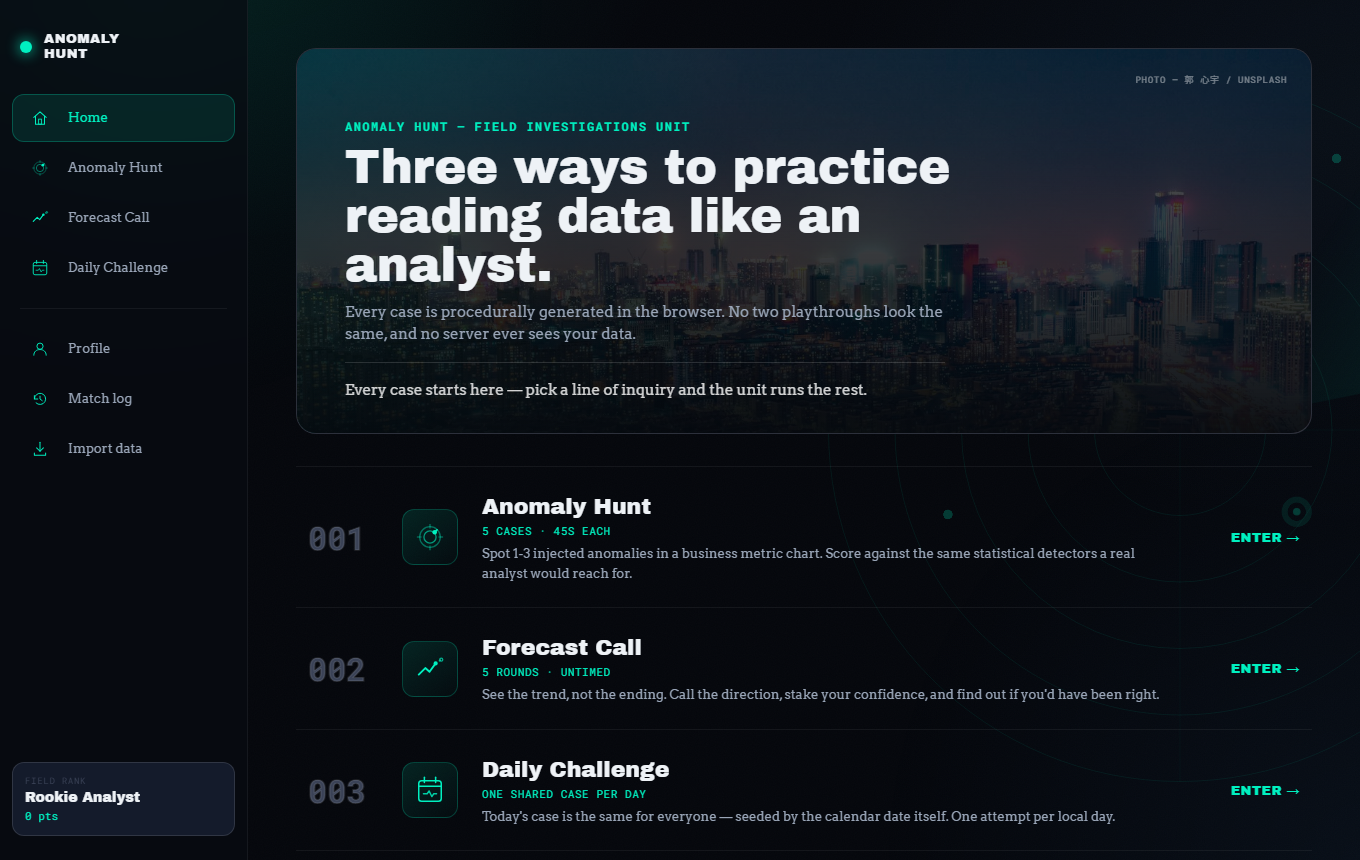
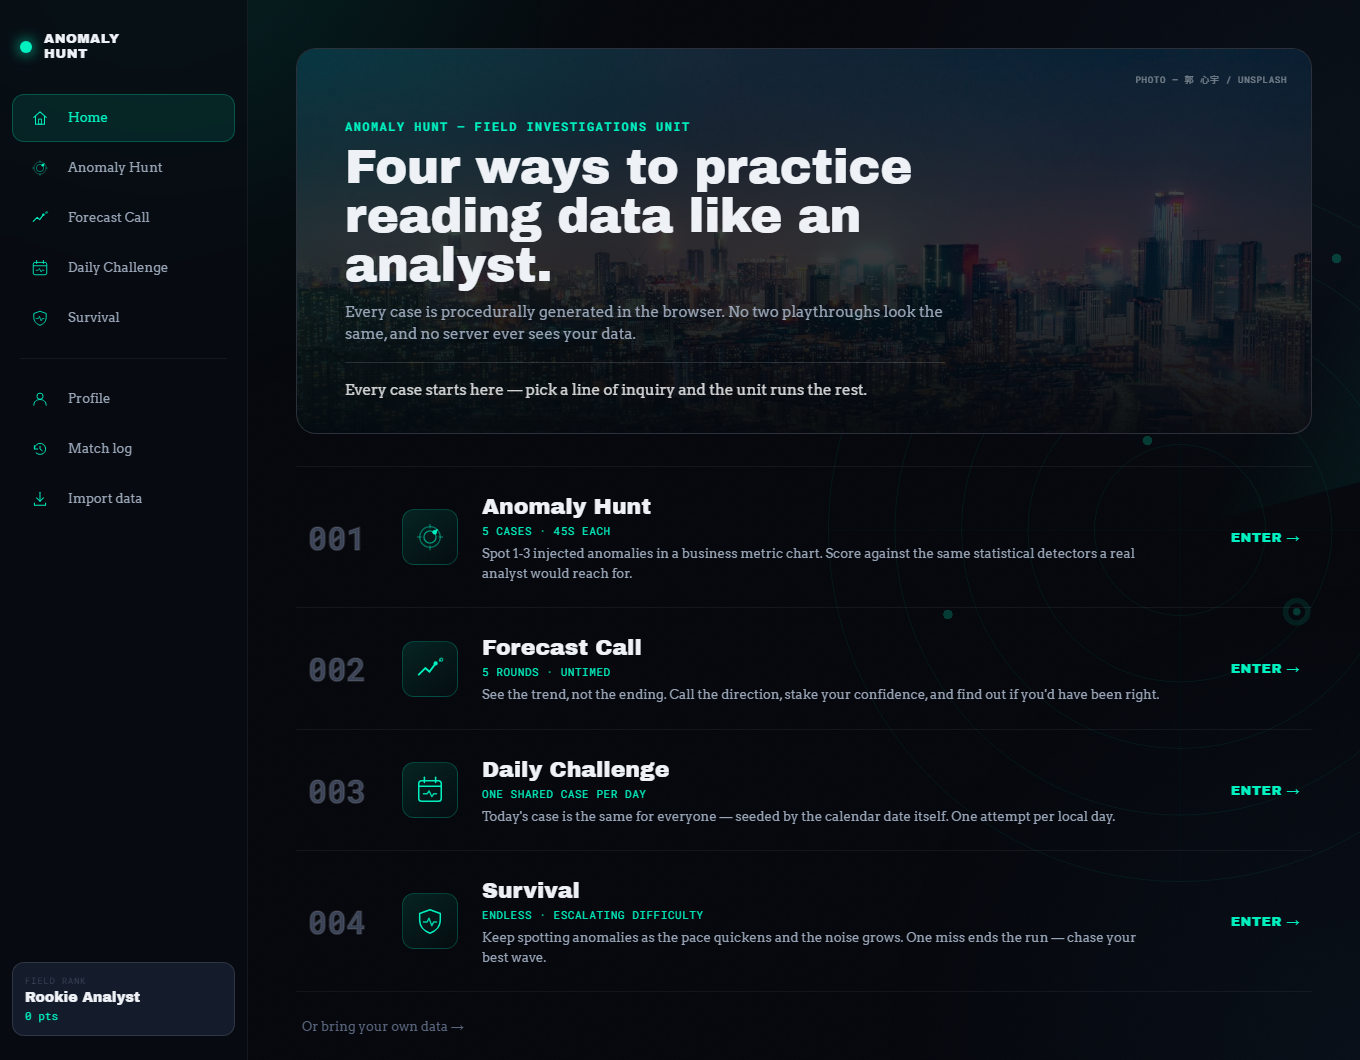
Update docs and screenshots for Survival mode and the new reveal features

diff --git a/README.md b/README.md
@@ -7,28 +7,36 @@ An open-source field-investigations game for practicing real BI/analytics
 skills: spotting anomalies in business data, forecasting where a trend
 goes next, and comparing your own judgement to real statistical methods.
 Every case is procedurally generated in the browser — no two playthroughs
-look the same, and no server ever sees your data.
+look the same, and no server ever sees your case data, scores, or match
+history.
 
 **[Play the live demo →](#)** *(add your GitHub Pages link here after deploying)*
 
-![Home screen — the case manifest, with a themed photo banner and the three modes listed as open cases](docs/screenshots/home.png)
+![Home screen — the case manifest, with a themed photo banner and all four modes listed as open cases](docs/screenshots/home.png)
 
 ### At a glance
 
-- **Three modes, one shared engine** — Anomaly Hunt (timed), Forecast
-  Call (untimed MCQ), Daily Challenge (one shared case a day) — plus a
-  fourth way in: bring your own CSV/JSON instead of a generated case.
-- **No backend, ever.** Every case is generated in your browser; your
-  profile, rank, and match history live in `localStorage` only. Nothing
-  you do here is ever sent anywhere.
+- **Four modes, one shared engine** — Anomaly Hunt (timed), Forecast
+  Call (untimed MCQ), Daily Challenge (one shared case a day), Survival
+  (endless, escalating difficulty, one miss ends the run) — plus a fifth
+  way in: bring your own CSV/JSON instead of a generated case.
+- **No backend for your data.** Every case is generated in your browser;
+  your profile, rank, and match history live in `localStorage` only —
+  none of it is ever sent anywhere. (The page does fetch Google Fonts at
+  load time, like most sites that use them — see
+  [Known limitations](#known-limitations) for the honest caveat on that.)
 - **Real statistics, not flavor text.** Three transparent anomaly
   detectors and a genuine precision/recall/F1 comparison against your
   own picks — see [`docs/methodology.md`](docs/methodology.md) for the
   reasoning behind every scoring and detection rule.
+- **Teaches, not just scores.** The reveal screen names what you missed
+  in plain English, shows the detector's own rolling-mean/std math on
+  request, and glossary tooltips explain each method — see
+  [Learning from every case](#learning-from-every-case).
 - **Tested and hardened**, not just demoed — a Vitest suite covers the
-  engine layer (including regression tests for two real, measured bugs
-  from development), CI runs that suite before every deploy, and the
-  shipped page carries a strict Content-Security-Policy with zero
+  engine layer (including regression tests for several real, measured
+  bugs from development), CI runs that suite before every deploy, and
+  the shipped page carries a strict Content-Security-Policy with zero
   relaxations.
 - **Keyboard-accessible.** The chart itself — the core interaction — is
   fully operable without a mouse, with live-region announcements for
@@ -37,8 +45,9 @@ look the same, and no server ever sees your data.
 ### Contents
 
 - [Look and feel](#look-and-feel)
-- [Three investigations, one engine](#three-investigations-one-engine)
+- [Four investigations, one engine](#four-investigations-one-engine)
 - [The interaction](#the-interaction)
+- [Learning from every case](#learning-from-every-case)
 - [How it works](#how-it-works)
 - [Testing, reliability & security](#testing-reliability--security)
 - [Repo structure](#repo-structure)
@@ -61,9 +70,9 @@ beat before the hidden data locks away. Switching screens in the sidebar
 sweeps the new one in with a spring-based "swoosh" rather than a plain
 fade.
 
-## Three investigations, one engine
+## Four investigations, one engine
 
-All three modes are built on the same procedurally-generated
+All four modes are built on the same procedurally-generated
 business-metric library (`web/src/engine/metrics.js`) — seven metric
 templates (revenue, active users, support tickets, defect rate, response
 time, ad ROAS, churn rate), each randomized every time, so the underlying
@@ -71,16 +80,18 @@ data engine is shared rather than duplicated per mode.
 
 ### 🕵 Anomaly Hunt
 Five cases, 45 seconds each. A business metric is shown with 1–3 injected
-anomalies (point spikes, level shifts, missing-data gaps, trend breaks).
-Click, or press-drag-release a dart onto the chart to flag what looks
-wrong before time runs out. Scoring is **distance-based**: a flag near
-the true anomaly earns partial credit that fades with distance — both in
-days and in value — not an all-or-nothing exact match (up to 6 flags per
-case). After each case, compare your picks to three real statistical
-detectors (rolling z-score, rolling IQR, a weekly-seasonal-diff method)
-run against the same data, with a real precision/recall/F1 "Human vs
-Machine" table — your score computed with the exact same methodology as
-the detectors, not a different metric dressed up to look comparable.
+anomalies — point spikes, level shifts, missing-data gaps, trend breaks,
+or volatility spikes (a short burst of erratic noise around an otherwise
+unchanged baseline). Click, or press-drag-release a dart onto the chart
+to flag what looks wrong before time runs out. Scoring is
+**distance-based**: a flag near the true anomaly earns partial credit
+that fades with distance — both in days and in value — not an
+all-or-nothing exact match (up to 6 flags per case). After each case,
+compare your picks to three real statistical detectors (rolling z-score,
+rolling IQR, a weekly-seasonal-diff method) run against the same data,
+with a real precision/recall/F1 "Human vs Machine" table — your score
+computed with the exact same methodology as the detectors, not a
+different metric dressed up to look comparable.
 
 ![Anomaly Hunt mid-case — darts flagged on a trend-break and level-shift, with the day-over-day delta strip below the chart](docs/screenshots/anomaly-hunt-gameplay.png)
 
@@ -101,6 +112,16 @@ is testing calibrated judgement, not just correctness.
 One deterministic, date-seeded Anomaly Hunt case shared by everyone who
 plays that day — the calendar date itself is the random seed, so no
 backend or server-assigned puzzle is needed. One attempt per local day.
+
+### 🛡 Survival
+Endless mode: cases keep coming, one wave at a time, with anomaly count
+and subtlety both escalating as you go (`survivalSettingsForWave()` in
+`anomalies.js`) — the ramp holds at a steady, tough-but-survivable
+ceiling past wave 13 rather than escalating forever, so a skilled run
+never becomes mathematically unwinnable. One missed anomaly ends the
+run (false alarms still cost points but don't end it by themselves);
+reaching wave N — even the wave that ends the run — counts toward your
+best-run stat, tracked on the Profile screen.
 
 ### 📥 Bring your own data
 Anomaly Hunt doesn't have to run on a procedurally-generated case — drop
@@ -125,7 +146,7 @@ never drift out of sync. History and local-only "personal best" boards
 (`leaderboard.js`) live entirely in `localStorage`; clearing it from the
 History screen gives you a clean slate.
 
-![Profile screen — rank progress bar and the per-anomaly-type detection skill radar chart](docs/screenshots/profile.png)
+![Profile screen — rank progress bar, lifetime stats including best survival wave, and the five-axis per-anomaly-type detection skill radar with a practice-your-weakest-skill CTA](docs/screenshots/profile.png)
 
 ## The interaction
 
@@ -142,6 +163,30 @@ The same chart is fully keyboard-operable too: focus it and use **Left
 focused one** — a live region announces the day, value, and flagged
 state as you move, since the pointer path's visual hover readout alone
 wouldn't reach a screen-reader user.
+
+## Learning from every case
+
+The reveal screen doesn't just score you — it explains:
+
+- **What you missed** — each missed anomaly is named in plain English
+  ("a level shift", "a burst of erratic noise"), not just marked wrong,
+  so a miss builds a mental taxonomy instead of staying an unexplained
+  red mark.
+- **Detector reasoning, on request** — a "Show detector math" toggle
+  overlays the rolling z-score detector's own mean ± std band on the
+  chart, the exact baseline it judged every point against.
+- **Glossary tooltips** on each detector's name in the Human vs Machine
+  table, so "Rolling IQR" doesn't have to be taken on faith.
+- **Practice your weakest skill** — the Profile screen's radar chart
+  tracks your hit rate per anomaly type; a one-click CTA builds a case
+  entirely out of whichever type you're worst at.
+- **Replay it live** — an alternate start on Anomaly Hunt's ready screen
+  reveals the case one day at a time instead of all 90 at once, testing
+  real-time judgement instead of hindsight pattern-matching on a static
+  chart. The chart's y-axis stays locked to the case's full range the
+  whole time (not rescaled as new days arrive) so the test stays "can
+  you still catch it without seeing the ending," not a second, noisier
+  test of coping with a moving axis.
 
 ## How it works
 
@@ -162,7 +207,7 @@ wouldn't reach a screen-reader user.
 4. Finish all rounds and the session score is broken down case by case,
    then logged to your local match history.
 
-![Case review — the accuracy/penalty/speed-bonus breakdown next to the Human vs Machine precision/recall/F1 comparison table](docs/screenshots/anomaly-hunt-reveal.png)
+![Case review — the rolling detector-math band toggled on, the accuracy/penalty/speed-bonus breakdown next to the Human vs Machine table with glossary tooltips, and the "What you missed" panel explaining the one anomaly that wasn't flagged](docs/screenshots/anomaly-hunt-reveal.png)
 
 ## Testing, reliability & security
 
@@ -174,7 +219,7 @@ npm run test:watch
 
 **Tested.** The engine layer (`web/src/engine/*.js`) — the part that
 actually has to be statistically correct — has a
-[Vitest](https://vitest.dev) suite covering every module, including two
+[Vitest](https://vitest.dev) suite covering every module, including
 regression tests for defects that were real, measured bugs during
 development and are exactly the kind of thing that could silently
 reappear without a test catching them:
@@ -186,6 +231,12 @@ reappear without a test catching them:
 - **The Forecast Call range-question band-width floor** — asserting the
   answer band can never collapse to a degenerate zero-width option on a
   metric pinned near its own floor.
+- **Zero-deviation-at-the-flagged-point** — both `trend_break` and
+  `volatility_spike` guard against the same failure mode: a point
+  computed purely from a formula (a slope, a random noise draw) can land
+  near zero by chance and make the one point a player is asked to find
+  look completely normal. Each type's injection guarantees a real
+  deviation exactly at its own index instead of leaving it to chance.
 
 The GitHub Actions deploy workflow runs this suite before every build —
 a failing test blocks the deploy, it doesn't just sit unread locally.
@@ -215,10 +266,10 @@ anomaly-hunt/
 │   ├── src/engine/                     # the game's logic, zero UI code
 │   │   ├── rng.js                      # seedable PRNG (mulberry32) + Gaussian sampler
 │   │   ├── metrics.js                  # business-metric templates, formatting, unit floors
-│   │   ├── anomalies.js                # injects labeled anomalies (spaced to avoid double credit)
-│   │   ├── detectors.js                # z-score / IQR / weekly-diff, self-exclusion built in
+│   │   ├── anomalies.js                # injects 1 of 5 labeled anomaly types (spaced to avoid double credit)
+│   │   ├── detectors.js                # z-score / IQR / weekly-diff, self-exclusion built in, each returns its own math
 │   │   ├── scoring.js                  # Anomaly Hunt distance-based + Forecast confidence scoring
-│   │   ├── case.js                     # builds one playable round from a template or imported data
+│   │   ├── case.js                     # builds one playable round from a template, imported data, or a Survival wave
 │   │   ├── daily.js                    # date-seeded deterministic Daily Challenge
 │   │   ├── forecast.js                 # Forecast Call: builds the MCQ + distractors
 │   │   ├── dataImport.js               # parses an imported CSV/JSON series (quote-aware, 5 MB capped)
@@ -227,19 +278,21 @@ anomaly-hunt/
 │   │   └── *.test.js                   # vitest coverage for every file above — see Testing, reliability & security below
 │   ├── src/charts/                     # hand-rolled d3-scale/d3-shape charts, no chart library
 │   │   ├── useChartScales.js           # the ONE exact-domain scale every marker shares
-│   │   ├── AnomalyChart.jsx            # press-drag-release dart (+ full keyboard path), detector overlay
+│   │   ├── AnomalyChart.jsx            # press-drag-release dart (+ full keyboard path), detector + rolling-band overlay
+│   │   ├── RollingBand.jsx             # the toggleable rolling mean ± std band behind the chart line
 │   │   ├── ForecastChart.jsx / ChartShadow.jsx   # cutoff + the fog-bank/ghost hidden-region reveal
-│   │   ├── RadarSkillChart.jsx         # Profile's per-anomaly-type detection skill chart
+│   │   ├── RadarSkillChart.jsx         # Profile's per-anomaly-type detection skill chart (N axes, generic)
 │   │   └── ChartGrid.jsx / SeriesPath.jsx
 │   ├── src/components/                 # shared design-system pieces (Button, Card, Pill, …)
 │   │   ├── AppShell.jsx                # persistent sidebar + ambient background, mounted once
 │   │   ├── ReadyGate.jsx               # the "read the brief, then start" pause before a round
-│   │   ├── CaseRevealPanel.jsx         # the shared "case closed" block (stamp, breakdown, detector table)
+│   │   ├── CaseRevealPanel.jsx         # the shared "case closed" block (stamp, breakdown, detector table, miss explanations)
+│   │   ├── InfoHint.jsx                # portaled hover/focus glossary tooltip, escapes clipping ancestors
 │   │   ├── PageShell.jsx               # per-screen header, incl. the photo case-file banner
 │   │   ├── ConfirmDialog.jsx / CommandPalette.jsx / ToastHub.jsx   # modal, ⌘K palette, achievement toasts
 │   │   └── ErrorBoundary.jsx / ScreenLoader.jsx   # per-screen crash/chunk-load recovery + lazy-load fallback
 │   ├── src/screens/                    # one folder per screen: Home, AnomalyHunt, ForecastCall,
-│   │                                    #   DailyChallenge, Profile, History, Import
+│   │                                    #   DailyChallenge, Survival, Profile, History, Import
 │   ├── src/assets/photos/              # credited Unsplash photos for each screen's case-file banner
 │   ├── src/design/                     # tokens.css (incl. the global focus-ring), animations.css
 │   ├── src/App.jsx                     # screen switcher, lazy-loaded per screen, page-transition shell
@@ -270,7 +323,7 @@ npm install
 npm run dev
 ```
 
-Either way, all three game modes generate their own data live in the
+Either way, all four game modes generate their own data live in the
 browser — nothing to run before `npm run dev`.
 
 Open the local dev URL Vite prints once either command finishes.
@@ -281,6 +334,14 @@ repo's Settings → Pages → Source: GitHub Actions).
 
 ## Known limitations
 
+- **The page fetches Google Fonts at load time** (`fonts.googleapis.com`
+  / `fonts.gstatic.com`, allow-listed in the CSP) — like the vast
+  majority of sites that use them, this means a visitor's browser makes
+  a request to Google's CDN, which sees that visitor's IP address the
+  same way any font/CDN request would. No game data, scores, or history
+  are ever part of that request or sent anywhere else — this is the one
+  caveat on the "no server ever sees your data" claims elsewhere in this
+  document, and it's called out here rather than left implicit.
 - **All data is synthetic**, generated procedurally in the browser — not
   real business data, and isn't claiming to be. The goal is realistic
   *shape* (seasonality, trend, noise), not real-world accuracy.
@@ -290,6 +351,10 @@ repo's Settings → Pages → Source: GitHub Actions).
 - The **credit radius (Anomaly Hunt) and confidence multipliers
   (Forecast Call)** are fixed values, not tuned per metric or per
   player.
+- **Survival's difficulty ramp is a hand-tuned curve**
+  (`survivalSettingsForWave()`), not something derived from actual player
+  data on what's fair at each wave — it's a reasonable first pass, not a
+  claim of being balanced.
 - **Profile, history, and personal bests are local to one browser**
   (`localStorage`) — no identity, no cross-device sync. Note that
   `localStorage` is scoped per *origin*, not per repo: if you deploy
@@ -302,11 +367,14 @@ repo's Settings → Pages → Source: GitHub Actions).
 ## Roadmap / good first issues
 
 - [ ] Add more business-metric templates for even more variety
-- [ ] Add a shared online leaderboard (small serverless function + DB)
-- [ ] Add difficulty-adaptive level selection based on player performance
+- [ ] Add a shared online leaderboard (small serverless function + DB) —
+  would also let Survival's best-wave stat be a real, comparable
+  high-score board instead of only a personal local one
+- [ ] Add difficulty-adaptive case selection to the standard (non-Survival)
+  5-case Anomaly Hunt sequence, based on player performance
 - [ ] Add an adjustable forecast horizon to Forecast Call
 - [ ] Port a higher-fidelity seasonal decomposition to JS
-- [ ] Add a third mode: a **Data Quality** challenge (spotting missing
+- [ ] Add a fifth mode: a **Data Quality** challenge (spotting missing
   values, duplicates, invalid records, timestamp problems in synthetic
   tabular data) — deliberately not started yet, to keep the existing
   modes the focus rather than spreading across several half-finished ones

diff --git a/docs/methodology.md b/docs/methodology.md
@@ -149,6 +149,33 @@ browsing the chart, and without a cap, repeatedly flagging while
 exploring could silently rack up dozens of flags with no analytical
 value and no warning.
 
+## Survival mode: a continuous difficulty ramp
+
+Survival mode (`web/src/screens/Survival/`) needed difficulty to keep
+escalating wave over wave, but the named tiers everything else uses
+(`easy`/`medium`/`hard` in `anomalies.js`) top out at `hard` with
+nowhere further to go. `survivalSettingsForWave(wave)` computes a
+settings object of the same shape directly instead of picking a named
+tier — `injectAnomalies()` accepts either — interpolating anomaly count,
+magnitude, and how obvious the anomaly's floor-level size is, from
+roughly `easy` at wave 1 toward a level tougher than `hard` by wave 13.
+
+**A design choice worth being upfront about, same as the other ones on
+this page**: the ramp *holds* at that wave-13 ceiling rather than
+escalating forever. An endless mode that keeps intensifying without
+bound doesn't get more interesting as it approaches infinity — it just
+gets to a guaranteed loss sooner, which is a worse experience than a
+tough-but-stable plateau a skilled player can actually sustain. This is
+a hand-tuned curve, not something derived from real player data on what
+difficulty is actually fair at a given wave — see the README's Known
+Limitations section for that caveat stated plainly.
+
+Everything else about a Survival wave — scoring, the three detectors,
+the Human vs Machine comparison, the reveal screen — is the exact same
+pipeline as a regular Anomaly Hunt case. Only how the case's difficulty
+is chosen differs; a wave is still built and judged identically to any
+other round.
+
 ## Forecast Call: how the MCQ is generated
 
 Forecast Call doesn't ask for a free-text prediction — it's a multiple-
@@ -209,15 +236,19 @@ analytical judgement the way it might for spotting an obvious outlier.
 
 Every correctness-critical claim on this page has a corresponding
 Vitest test in `web/src/engine/*.test.js` (`npm test` from `web/`) — in
-particular, the self-inclusion exclusion in the detectors and the
-Forecast Call band-width floor are both regression-tested against the
-exact failure mode described above, not just asserted in prose.
+particular, the self-inclusion exclusion in the detectors, the Forecast
+Call band-width floor, and the zero-deviation-at-the-flagged-point
+guarantee for `trend_break`/`volatility_spike` are all regression-tested
+against the exact failure mode described above, not just asserted in
+prose. Survival's difficulty ramp has its own coverage too — that it
+actually escalates, and that it holds steady past the wave-13 ceiling
+instead of continuing to climb.
 
 ## Extending this project
 
 - Add a new anomaly type by extending `web/src/engine/anomalies.js`
 - Add a new business-metric template to `metrics.js`'s
-  `METRIC_TEMPLATES` array — all three modes pick it up automatically
+  `METRIC_TEMPLATES` array — all four modes pick it up automatically
 - Add a new detection method by extending `detectors.js`
 - Add a new question type to Forecast Call by extending `forecast.js`'s
   `FORECAST_QUESTION_TYPES` and its matching builder function
